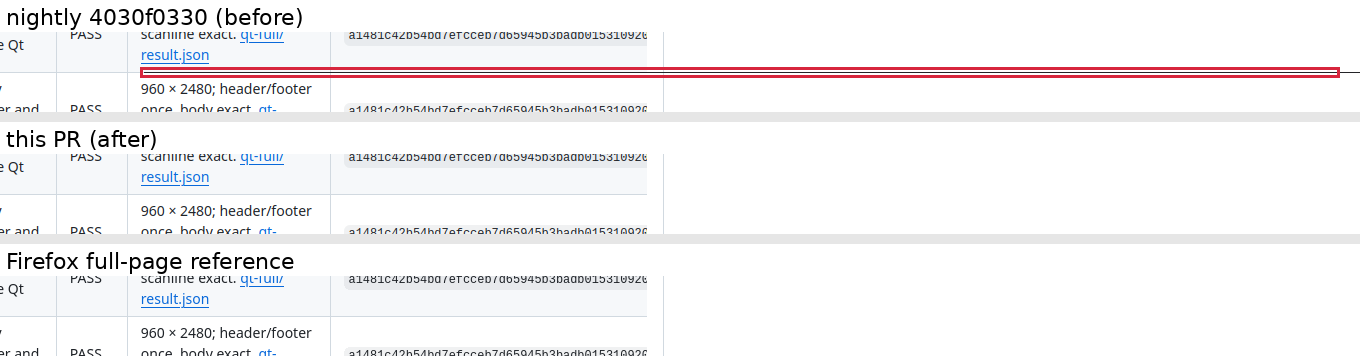
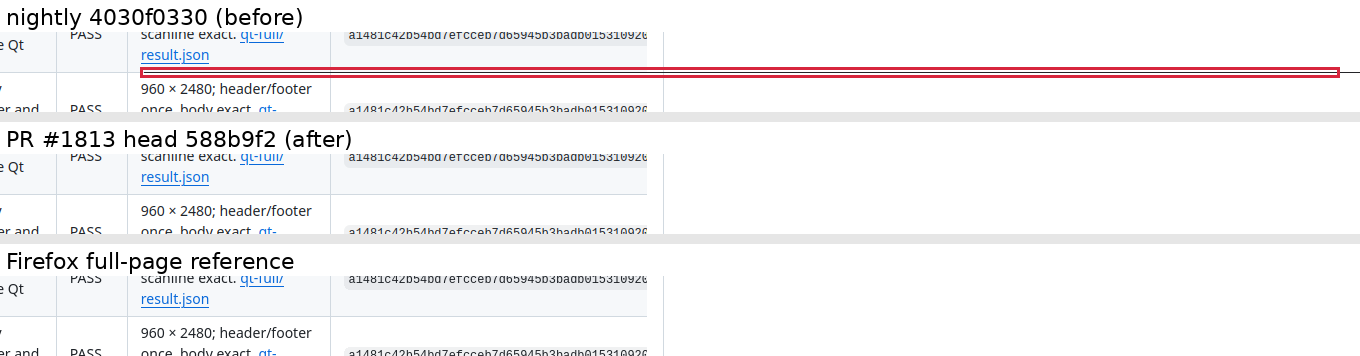
2026-11-22-scroll-edge-line-1796: Scrolling capture: the region's bottom-edge line stays out of the page (#1796)
Source: put.gd-desktop@588b9f28f7a1b2c528c2bf38551ece4a72bde8cc
Evidence-Amend: picture from the final head; say the scroll bar column keeps a piece

Changed region(s): [[0.0, 0.3708, 0.2779, 0.4326]]

diff --git a/records/2026-11-22-scroll-edge-line-1796/README.md b/records/2026-11-22-scroll-edge-line-1796/README.md
@@ -12,9 +12,9 @@ and its `build-info.json` is identical to the packages'.
 ## Replay
 
 `pictures/q4-edge.png`: m74 run `firefox-github-user-q-4` (from the #1557 record `2026-11-21-scroll-white-boxes-1557`),
-every recorded frame replayed through nightly `4030f0330` and through the PR, next to Firefox's full-page picture at image
-row 24,795. Nightly draws the edge line across the table row and the white margin; the PR doesn't. (The picture was made
-with the PR's first head `17ecb42a5`. The final head `588b9f2` gives the same result at that row.)
+every recorded frame replayed through nightly `4030f0330` and through the PR's final head `588b9f2`, next to Firefox's
+full-page picture at image row 24,795. Nightly draws the edge line across the table row and the white margin; the PR
+doesn't, except for a 16-px piece in the scroll bar's column at the far right, kept on purpose (see below).
 
 The 7 recorded runs (d-1 to d-4, p-1, p-3, q-4) replayed at the final head: every long edge-line piece is gone.
 All 295 row ranges that change move closer to the reference, and none moves away. 2-cell pieces can remain in the
